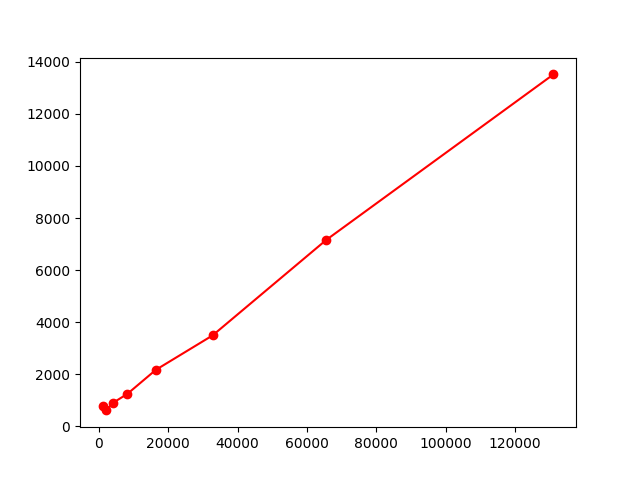
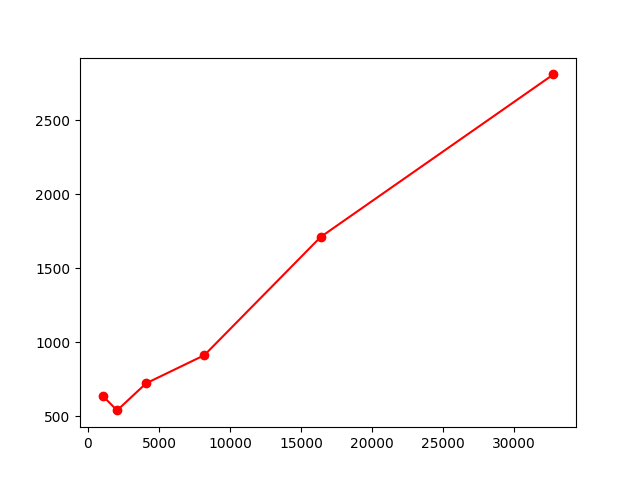
ass3 2.0

diff --git a/ass3/ContainsTimingExperiment.java b/ass3/ContainsTimingExperiment.java
@@ -21,7 +21,7 @@ public class ContainsTimingExperiment {
     try (FileWriter fw = new FileWriter(new File("/Users/zhanyijun/Desktop/CS6012/ass3/data.csv"))) { // open up a file writer so we can write
                                                                                 // to file.
       Random random = new Random();
-      for (int exp = 10; exp <= 20; exp++) { // This is used as the exponent to calculate the size of the set.
+      for (int exp = 10; exp <= 15; exp++) { // This is used as the exponent to calculate the size of the set.
         int size = (int) Math.pow(2, exp); // or ..
 
         // Do the experiment multiple times, and average out the results

diff --git a/ass3/BinarySearchSetTest.java b/ass3/BinarySearchSetTest.java
@@ -70,6 +70,20 @@ class BinarySearchSetTest {
         assertEquals(Integer.valueOf(2), it.next());
         assertEquals(Integer.valueOf(3), it.next());
         assertFalse(it.hasNext());
+
+    }
+    @Test
+    public void testIteratorRemove() {
+        BinarySearchSet<Integer> set = new BinarySearchSet<>();
+        set.add(1);
+        set.add(2);
+
+        Iterator<Integer> it = set.iterator();
+        assertEquals(Integer.valueOf(1), it.next());
+        it.remove(); // 移除元素 1
+
+        assertFalse(set.contains(1)); // 确保元素 1 被移除
+        assertTrue(set.contains(2)); // 确保元素 2 仍然存在
     }
 
 }

diff --git a/ass3/BinarySearchSet.java b/ass3/BinarySearchSet.java
@@ -230,4 +230,5 @@ public class BinarySearchSet<E> implements SortedSet<E>,Iterable<E> {
     public E[] toArray() {
         return Arrays.copyOf(data, size);
     }
+
 }
